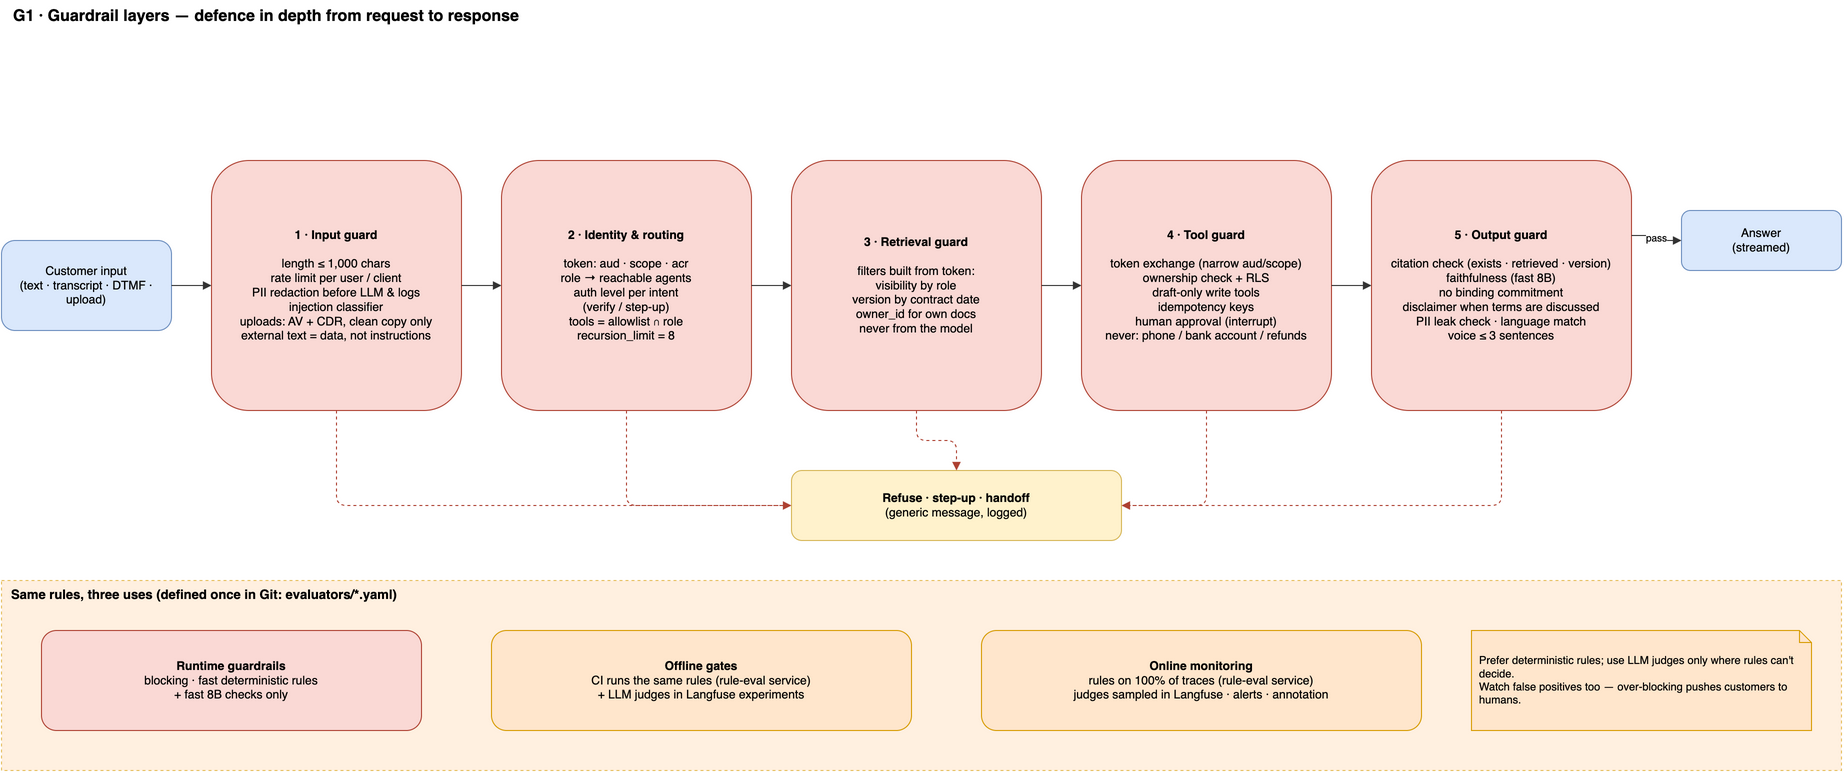
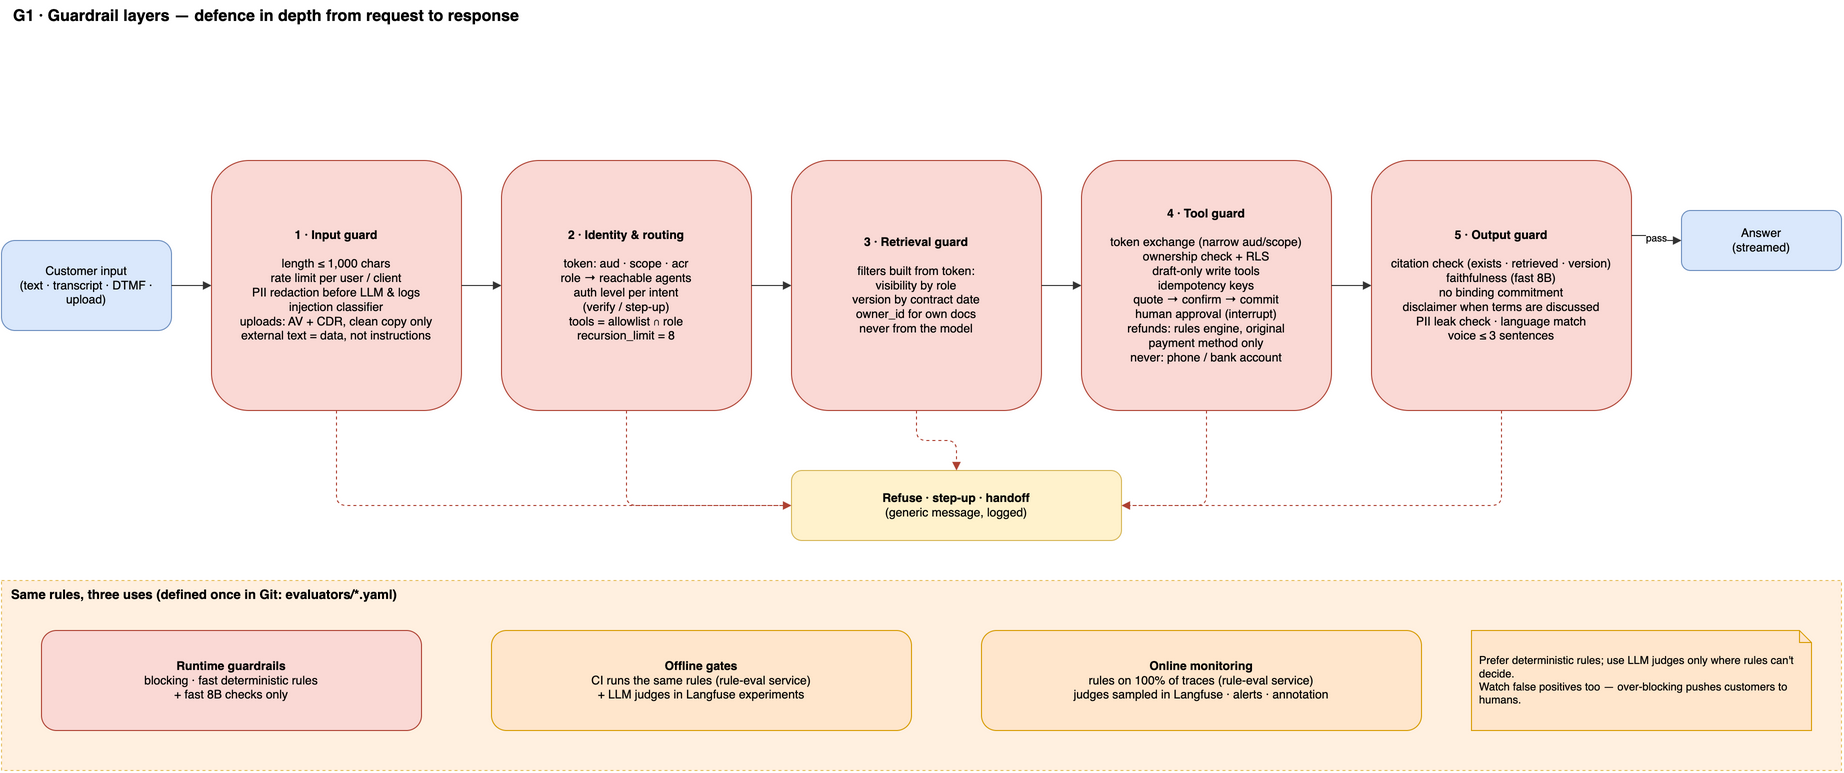
Add tool and API contracts (4.6), order and refund flows (C5, C6)

Changed region(s): [[0.5873, 0.2484, 0.711, 0.4657]]

diff --git a/tools/gen_sequences.py b/tools/gen_sequences.py
@@ -229,6 +229,69 @@ s.msg("or", "kf", "task.updated (completed)")
 s.msg("kf", "c", "SMS / push: change completed", ret=True)
 save(s, "C4-approval-account-change.drawio")
 
+# ---------------- C5 Orders: history lookup + place order ----------------
+s = Sequence("C5 Orders", [("c", "Customer<br>(chat / voice)", "client"), ("or", "Orchestrator<br>(LangGraph)", "core"), ("om", "Order MCP", "agent"),
+                            ("rc", "Redis-cache", "data"), ("os", "Order service<br>(internal GW)", "ext"), ("ar", "Order archive<br>(> 90 days)", "data")])
+s.text("C5 · Orders — history lookup, then place order with quote → confirm → commit", 40, 10, 1100, 30, 16, True)
+s.note_over("c", "ar", "Customer verified · customer_id comes from the token's sub, never a tool argument", zone="sec")
+s.msg("c", "or", "\"The headphones I bought last March?\"")
+s.msg("or", "om", "search_order_history(keyword=headphones, date_range=2025-03, limit≤5)")
+s.msg("om", "os", "GET /customers/me/orders:search?q=headphones&from=…&to=…")
+s.msg("os", "ar", "older than 90 days → archive query")
+s.msg("ar", "os", "matches", ret=True)
+s.msg("os", "om", "2 orders (summaries only)", ret=True)
+s.msg("om", "rc", "cache: customer + session + query hash, 5 min")
+s.msg("om", "or", "ORD-1182 · ORD-1190 (id, date, amount, status, first item)", ret=True)
+f0 = s.y + 20; s.y += 25
+s.msg("or", "c", "chat: UI renders order cards from tool data (not LLM text)", ret=True)
+s.msg("or", "c", "voice: \"Two orders in March — the 12th or the 28th?\"", ret=True)
+s.frame("alt  channel", "c", "or", f0, s.y + 20); s.y += 30
+s.msg("c", "or", "\"Order the same again\"")
+s.msg("or", "om", "quote_order(items of ORD-1190, address_ref=default)")
+s.msg("om", "os", "POST /orders:quote")
+s.msg("os", "om", "Q-77: HK$899, delivery Fri, confirmation_token (5 min, bound to customer + payload hash)", ret=True)
+s.msg("or", "c", "\"HK$899, delivered Friday to your default address — confirm?\" (button / say yes / press 1)", ret=True)
+s.msg("c", "or", "explicit \"Yes\"")
+s.msg("or", "om", "place_order(confirmation_token)  — no other parameters")
+s.msg("om", "os", "POST /orders  Idempotency-Key: T-6001:place")
+s.msg("os", "os", "verify token signature · payload hash · expiry · ownership")
+s.msg("os", "om", "ORD-1203 created", ret=True)
+s.msg("om", "rc", "purge this customer's order cache")
+s.msg("or", "c", "\"Order ORD-1203 placed\" + order card", ret=True)
+s.note_over("c", "ar", "After confirmation the LLM can't change anything: commit carries only the token; a replay returns the same order", zone="sec")
+save(s, "C5-orders.drawio")
+
+# ---------------- C6 Refund ----------------
+s = Sequence("C6 Refund", [("c", "Customer", "client"), ("or", "Orchestrator<br>(LangGraph)", "core"), ("rag", "RAG<br>(return policy)", "agent"),
+                            ("om", "Order MCP", "agent"), ("re", "Refund rules<br>engine", "core"), ("ap", "Approver<br>(staff SSO)", "client"),
+                            ("pay", "Payments", "ext"), ("kf", "Kafka → notify", "data")])
+s.text("C6 · Refund — policy via RAG, eligibility by rules, auto-approval behind a switch, otherwise human approval", 40, 10, 1300, 30, 16, True)
+s.msg("c", "or", "\"The headphones from ORD-1203 are faulty — I want a refund\"")
+s.msg("or", "rag", "search_policy(\"return faulty item\")")
+s.msg("rag", "or", "Return policy v2026.3 §4: 30 days; faulty → full refund (citations)", ret=True)
+s.msg("or", "om", "check_refund_eligibility(ORD-1203)")
+s.msg("om", "re", "window · item state · amount · prior refunds · risk flags")
+s.msg("re", "om", "eligible · HK$899 · original payment method only", ret=True)
+s.msg("or", "c", "explains the policy with citations — \"Submit a refund request?\"", ret=True)
+s.msg("c", "or", "explicit \"Yes\"")
+s.msg("or", "om", "request_refund(ORD-1203, reason=faulty)  Idempotency-Key: T-6002:refund")
+s.msg("om", "re", "decide(amount, risk, refund.auto_approve)")
+f1 = s.y + 20; s.y += 25
+s.msg("re", "pay", "refund HK$899 to the original payment method")
+s.msg("re", "om", "R-55 approved automatically", ret=True)
+s.msg("or", "c", "\"Refund approved — 3–5 working days\"", ret=True)
+s.frame("alt  switch ON and amount ≤ threshold", "c", "pay", f1, s.y + 20); s.y += 30
+f2 = s.y + 20; s.y += 25
+s.msg("re", "om", "R-55 pending approval (draft)", ret=True)
+s.msg("or", "c", "\"Submitted — reviewed within 2 working days\"", ret=True)
+s.msg("ap", "re", "approve R-55 (approver's own token; approver ≠ requester)")
+s.msg("re", "pay", "refund to the original payment method")
+s.frame("alt  switch OFF, above threshold, or risk flag", "c", "pay", f2, s.y + 20); s.y += 30
+s.msg("re", "kf", "refund.completed")
+s.msg("kf", "c", "SMS / push: refund issued", ret=True)
+s.note_over("c", "kf", "The AI never decides eligibility or approves. Money only returns to the original payment method. Switch + threshold live in config/policy.yaml (reviewed PR).", zone="sec")
+save(s, "C6-refund.drawio")
+
 # ---------------- D1 Events & cross-channel ----------------
 s = Sequence("D1 Events", [("or", "Orchestrator", "core"), ("kf", "Kafka", "data"), ("nt", "Notification svc", "core"),
                             ("crm", "CRM sync", "ext"), ("au", "Audit (WORM)", "sec"), ("bi", "Reporting", "obs"), ("cu", "Customer devices", "client")])

diff --git a/tools/gen_llmops.py b/tools/gen_llmops.py
@@ -39,7 +39,7 @@ req = d.box("Customer input<br>(text · transcript · DTMF · upload)", 30, 250,
 l1 = d.box("<b>1 · Input guard</b><br><br>length ≤ 1,000 chars<br>rate limit per user / client<br>PII redaction before LLM & logs<br>injection classifier<br>uploads: AV + CDR, clean copy only<br>external text = data, not instructions", 240, 170, 250, 250, "sec")
 l2 = d.box("<b>2 · Identity & routing</b><br><br>token: aud · scope · acr<br>role → reachable agents<br>auth level per intent<br>(verify / step-up)<br>tools = allowlist ∩ role<br>recursion_limit = 8", 530, 170, 250, 250, "sec")
 l3 = d.box("<b>3 · Retrieval guard</b><br><br>filters built from token:<br>visibility by role<br>version by contract date<br>owner_id for own docs<br>never from the model", 820, 170, 250, 250, "sec")
-l4 = d.box("<b>4 · Tool guard</b><br><br>token exchange (narrow aud/scope)<br>ownership check + RLS<br>draft-only write tools<br>idempotency keys<br>human approval (interrupt)<br>never: phone / bank account / refunds", 1110, 170, 250, 250, "sec")
+l4 = d.box("<b>4 · Tool guard</b><br><br>token exchange (narrow aud/scope)<br>ownership check + RLS<br>draft-only write tools<br>idempotency keys<br>quote → confirm → commit<br>human approval (interrupt)<br>refunds: rules engine, original<br>payment method only<br>never: phone / bank account", 1110, 170, 250, 250, "sec")
 l5 = d.box("<b>5 · Output guard</b><br><br>citation check (exists · retrieved · version)<br>faithfulness (fast 8B)<br>no binding commitment<br>disclaimer when terms are discussed<br>PII leak check · language match<br>voice ≤ 3 sentences", 1400, 170, 260, 250, "sec")
 ok = d.box("Answer<br>(streamed)", 1710, 220, 160, 60, "client")
 bad = d.box("<b>Refuse · step-up · handoff</b><br>(generic message, logged)", 820, 480, 330, 70, "edge")

diff --git a/README.md b/README.md
@@ -55,7 +55,7 @@ The two AI channels:
 - **Voice:** customers call in.
 - **Online chat:** app, web and WhatsApp.
 
-Both channels handle four kinds of request:
+Both channels handle five kinds of request:
 
 | Request type | Example | Handling |
 |---|---|---|
@@ -63,6 +63,7 @@ Both channels handle four kinds of request:
 | Personal account lookup | "When does my plan renew?" "Was this month's payment received?" | Agent calling tools (read only) |
 | Service cases | "What's the status of my case?" "Which documents do I need?" | Agent calling tools; submissions need human approval |
 | Servicing | Change address or registered details; cancellation | AI prepares a draft or request; **a human approves or completes it** |
+| Orders and returns | "Where's my order?" "What did I buy last March?" "Order the same again" "Refund this faulty item" | Read tools; placing an order needs **explicit customer confirmation**; refunds are decided by a rules engine (auto-approval behind a switch) or a human |
 
 **Constraints and non-functional requirements**
 
@@ -184,6 +185,7 @@ In Anthropic's terms this is a **workflow, not an autonomous agent**: a routing 
 | `account_agent` | Qwen3-8B | `get_accounts`, `get_account_detail`, `get_billing_history` | — | verified |
 | `case_agent` | Qwen3-32B | `get_case_status`, `list_required_documents` | `case_guide`, `document_checklist` | verified |
 | `service_agent` | Qwen3-32B | `create_change_draft` (**draft only**) | `profile_change`, `address_change`, `cancellation` | verified + step-up |
+| `order_agent` | Qwen3-32B | `list_orders`, `search_order_history`, `get_order`, `get_spend_summary`, `track_shipment`, `quote_order`, `place_order`, `cancel_order`, `check_refund_eligibility`, `request_refund`, `get_refund_status`, `search_policy` | `order_lookup`, `returns_guide` | verified; writes need explicit confirmation |
 
 ### 4.3 Configuration lives in code, not in prompts
 
@@ -223,6 +225,69 @@ Everything else is a content source the application places into those slots:
 | Structured output | `response_format` (enforced by constrained decoding in vLLM) |
 
 Static content goes first and dynamic content last, so **vLLM prefix caching** cuts time-to-first-token, which matters most for voice.
+
+### 4.6 Tool and API contracts
+
+**Two layers.** Workers call **MCP tools**, which call the **internal REST APIs** of the systems of record. Raw REST APIs are never exposed to the LLM.
+
+| | MCP tool (for the agent) | Internal REST API (system of record) |
+|---|---|---|
+| Granularity | Task-shaped, coarse, few fields | Resource-shaped, fine-grained |
+| Customer scope | **No `customer_id` argument**; it comes from the token | `/customers/me/...`; the backend checks ownership |
+| Output | Summaries, masked fields, LLM-readable errors | Full business data |
+| Callers | The LLM only | MCP servers, staff back office, app |
+
+**Write tiers**
+
+| Tier | Examples | Flow |
+|---|---|---|
+| T0 · read | Order lookup and history, shipment, refund status, return policy | Direct call |
+| T1 · customer-confirmed write | Place an order; cancel an unshipped order; refunds under the auto-approval switch | **Quote → explicit confirmation → commit** |
+| T2 · draft + human approval | Refunds above the threshold or with risk flags; account changes | Draft, then approval ([C4](#9-business-flows)) |
+| T3 · never via AI | Change payout bank account or registered phone | Handoff only |
+
+**Order tools (generic example)**
+
+| Tool | Tier | Internal API |
+|---|---|---|
+| `list_orders(status?, since?, until?, limit≤10, cursor?)` | T0 | `GET /customers/me/orders` (default: last 90 days) |
+| `search_order_history(keyword?, product?, date_range?, amount_range?, limit≤5)` | T0 | `GET /customers/me/orders:search` (main store + archive) |
+| `get_order(order_id)` | T0 | `GET /orders/{id}` |
+| `get_spend_summary(period, group_by?)` | T0 | `GET /customers/me/spend-summary` |
+| `track_shipment(order_id)` | T0 | `GET /orders/{id}/shipment` |
+| `quote_order(items, address_ref)` | T1 | `POST /orders:quote` → summary + `confirmation_token` |
+| `place_order(confirmation_token)` | T1 | `POST /orders` with `Idempotency-Key` |
+| `cancel_order(order_id)` | T1 | `POST /orders/{id}:cancel` (unshipped only) |
+| `check_refund_eligibility(order_id)` | T0 | `GET /orders/{id}/refund-eligibility` |
+| `request_refund(order_id, reason)` | T1 / T2 | `POST /orders/{id}/refund-requests` |
+| `get_refund_status(request_id)` | T0 | `GET /refund-requests/{id}` |
+| `search_policy(query)` | T0 | RAG over return and refund terms; **not an API** |
+
+**Contract rules**
+- **Ownership on every ID** (BOLA, OWASP API1): each `order_id` is checked against the token's `sub`.
+- **Two-step commit for T1 writes.** The quote returns a signed `confirmation_token` (5 minutes, bound to the customer and a hash of the payload). The customer confirms explicitly (a button in chat; "yes" or DTMF 1 on voice). The commit carries only the token, so the LLM can't change parameters after confirmation.
+- **Idempotency:** every write takes `Idempotency-Key` (`task_id` + step); a replay returns the original result.
+- **Small results:** lists are paginated with a cursor and capped; each item is a summary (ID, date, amount, status, first item). Too many matches → return the count and ask the customer to narrow it down.
+- **Numbers come from the system.** Totals and spend summaries are computed by the API; the output guardrail checks that amounts in the answer match tool results.
+- **Channel rendering:** in chat, order lists render as UI cards straight from tool data; on voice, the AI narrows down ("two orders in March — the 12th or the 28th?") instead of reading a list.
+- **History:** orders older than 90 days come from the archive (slower; voice says "one moment"). Beyond the retention period, the AI says the record is no longer kept.
+- **Errors:** `{code, retryable, user_message_key}`, so the worker knows whether to retry, ask, or hand off.
+- **Versioning:** API versions and tool schemas are pinned per release.
+
+**Refunds**
+- **Eligibility is decided by the refund rules engine, not the LLM:** window, item state, amount, prior refunds, risk flags. The AI explains the return policy with citations.
+- **Money only returns to the original payment method**, which closes the "refund to a new account" attack.
+- **Auto-approval is behind a switch** in `config/policy.yaml`, changed only through a reviewed pull request:
+
+```yaml
+refund:
+  auto_approve:
+    enabled: true            # off → every refund goes to human approval
+    max_amount: 1000         # HKD, per refund
+    max_per_customer_30d: 2
+    exclude_risk_flags: [chargeback_history, account_age_lt_30d]
+```
+
 
 ---
 
@@ -356,7 +421,7 @@ See [section 18](#18-deployment-profiles-cloud-vs-on-prem).
 - Caller ID only identifies the *likely* customer, because it can be spoofed. The OTP goes **only to the number on file**, so spoofing doesn't help an attacker.
 - The OTP is 6 digits, valid for 5 minutes, single-use and bound to the call. Sends are rate-limited (against SMS pumping), and verification locks after 3 failures.
 - Failure messages never reveal which factor was wrong.
-- Changing the registered phone, the payment bank account, or completing a cancellation refund **never happens in the AI channel**.
+- Changing the registered phone, the payment bank account, or completing a cancellation refund **never happens in the AI channel**. Order refunds go only to the original payment method, decided by the rules engine ([section 4.6](#46-tool-and-api-contracts)).
 - Date of birth is a weak secret, so residual risk is handled downstream: human approval, out-of-band notifications, cooling-off periods on sensitive changes.
 
 ### 8.2 Tokens
@@ -467,6 +532,21 @@ It is encoded, **not encrypted**, so no sensitive data goes into it.
 
 ![C4 Approval](docs/img/C4-approval-account-change.png)
 *C4 · Account change with human approval — source: [`C4-approval-account-change.drawio`](docs/diagrams/C4-approval-account-change.drawio)*
+
+**Orders (C5).**
+- History: `search_order_history` queries the main store and the archive; results are summaries, cached for the session; chat shows order cards, voice narrows down.
+- Placing an order: quote → the customer confirms the summary explicitly → commit with the `confirmation_token` and an idempotency key.
+
+![C5 Orders](docs/img/C5-orders.png)
+*C5 · Order history and placing an order — source: [`C5-orders.drawio`](docs/diagrams/C5-orders.drawio)*
+
+**Refund (C6).**
+- The AI explains the return policy from RAG with citations; the rules engine decides eligibility.
+- With the switch on and the amount under the threshold, the refund is approved automatically; otherwise it becomes a draft for human approval, as in C4.
+- Money only returns to the original payment method.
+
+![C6 Refund](docs/img/C6-refund.png)
+*C6 · Refund — source: [`C6-refund.drawio`](docs/diagrams/C6-refund.drawio)*
 
 ---
 
@@ -628,7 +708,7 @@ Defence in depth: any layer can refuse, require step-up, or hand off to a human,
 | 1 · Input | Length (≤ 1,000 characters), rate limits per user and client, PII redaction before the LLM and the logs, injection classifier, uploads scanned (AV + CDR) with only the clean copy used, external text treated as data rather than instructions |
 | 2 · Identity and routing | Token `aud`, `scope` and `acr`; role → reachable agents; assurance level per intent (verify or step-up); tools = agent allowlist ∩ role; `recursion_limit = 8` |
 | 3 · Retrieval | Filters built from the token (visibility by role, clause version by contract start date, `owner_id`), never from the model |
-| 4 · Tools | Token exchange with a narrow `aud` and `scope`; ownership check plus row-level security; write tools that only create drafts; idempotency keys; human approval via `interrupt()`; never change phone, bank account or refund |
+| 4 · Tools | Token exchange with a narrow `aud` and `scope`; ownership check plus row-level security; write tools that only create drafts; idempotency keys; quote → confirm → commit for customer-confirmed writes; human approval via `interrupt()`; refunds only to the original payment method, decided by the rules engine; never change phone or bank account |
 | 5 · Output | Citation check (exists, was retrieved, correct version); fast faithfulness check (8B); no binding commitment; disclaimer when terms are discussed; PII leak check; language match; voice answers ≤ 3 sentences |
 
 **One rule set, three uses.** Each rule is defined once in Git (`evaluators/*.yaml`) and used in three places:
@@ -927,7 +1007,7 @@ docs/diagrams/*.drawio   editable draw.io sources (open in draw.io or the VS Cod
 docs/img/*.png           exported previews used in this README
 tools/drawio_lib.py      tiny generator for component and sequence diagrams
 tools/gen_components.py  A1–A4, R1–R3
-tools/gen_sequences.py   B1–B5, C1–C4, D1–D2
+tools/gen_sequences.py   B1–B5, C1–C6, D1–D2
 tools/gen_state.py       M1–M2
 tools/gen_llmops.py      L1, G1, E1, E2, P1
 ```
